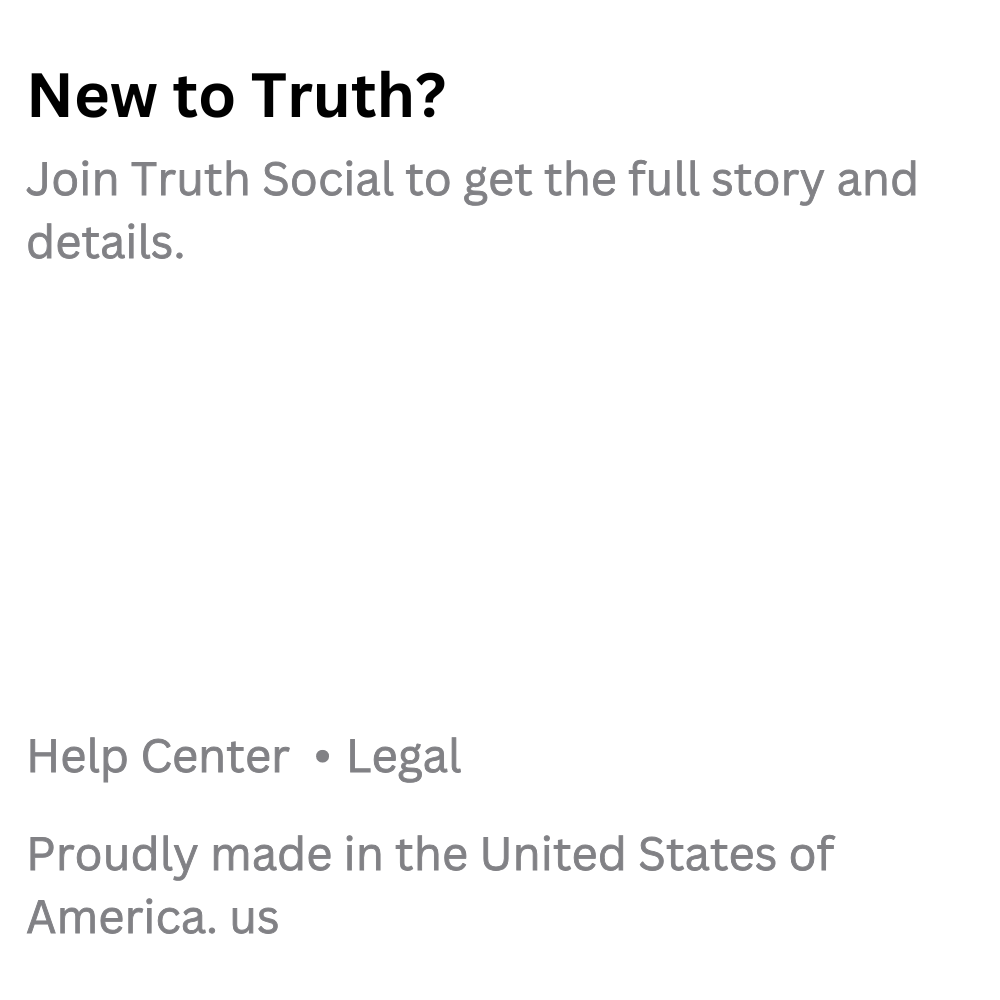
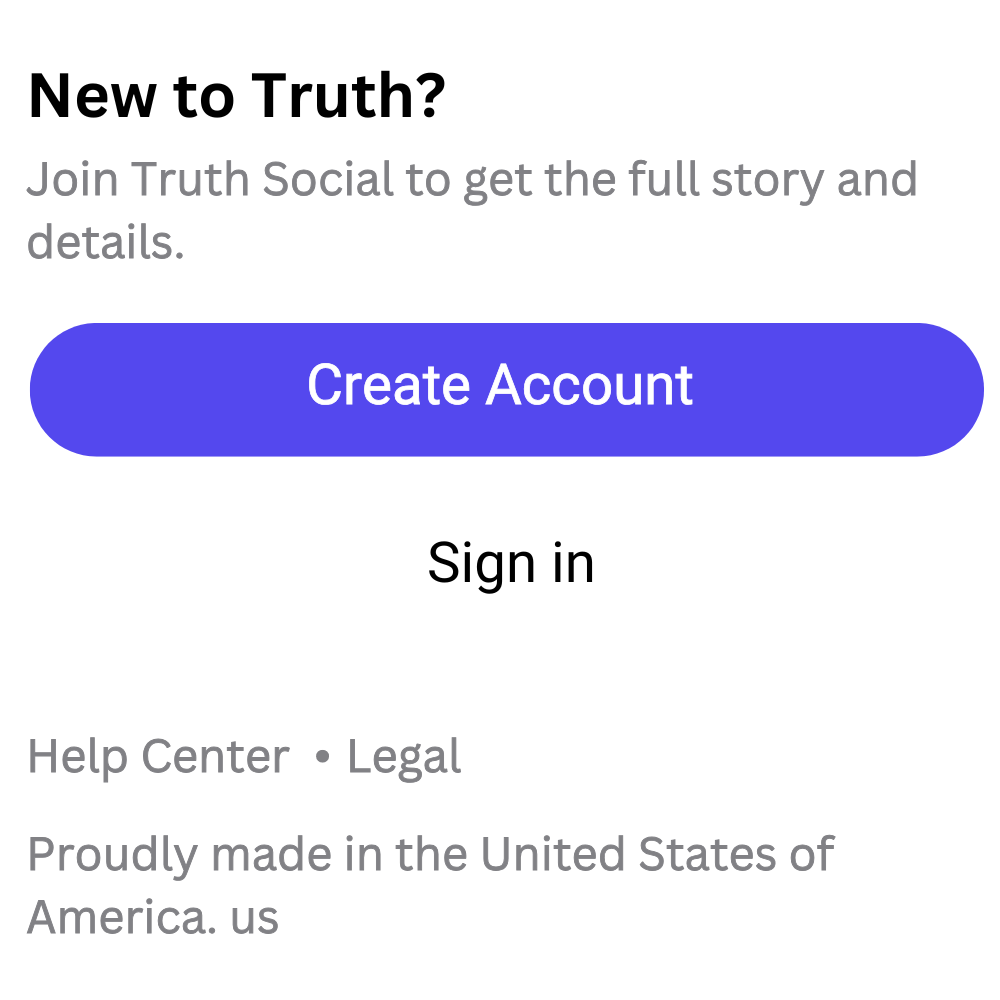
Describe your changes hawdwawdiaqawkjdbawdf

Changed region(s): [[0.031, 0.31, 0.992, 0.465], [0.434, 0.527, 0.589, 0.589]]

diff --git a/index.html b/index.html
@@ -195,17 +195,7 @@
       gap: 0.625rem; /* 10px */
     }
     
-    .fixed-right button {
-      padding: 0.75rem 6rem;
-      background-color: #5548ee;
-      color: #fff;
-      border: none;
-      border-radius: 1.75rem; /* 28px */
-      font-size: 1rem;
-      font-weight: 500;
-      cursor: pointer;
-      transition: transform 0.3s ease, border 0.3s ease;
-    }
+
     
     .fixed-right button:hover {
       transform: scale(1.1);
@@ -260,7 +250,7 @@
       <!-- Text block between the user-info and the center image -->
       <div class="intermediate-text">
         We’re going to become so rich, you’re not gonna know where to spend all that money.
-        I’m telling 
+        I’m telling you—just watch!
       </div>
       
       <!-- Center image container -->
@@ -292,12 +282,7 @@
       <button class="sign-in" onclick="window.location.href='https://truthsocial.com/'">Sign In</button>
     </div>
   </div>
-  
-  <!-- Extra fixed container on the right-hand side with stacked buttons -->
-  <div class="fixed-right">
-    <button onclick="window.location.href='https://truthsocial.com/'">Create Account</button>
-    <button class="sign-in" onclick="window.location.href='https://truthsocial.com/'">Sign In</button>
-  </div>
+
   
   <!-- Fixed new.png image -->
   <img src="new.png" alt="New" class="fixed-new" />
